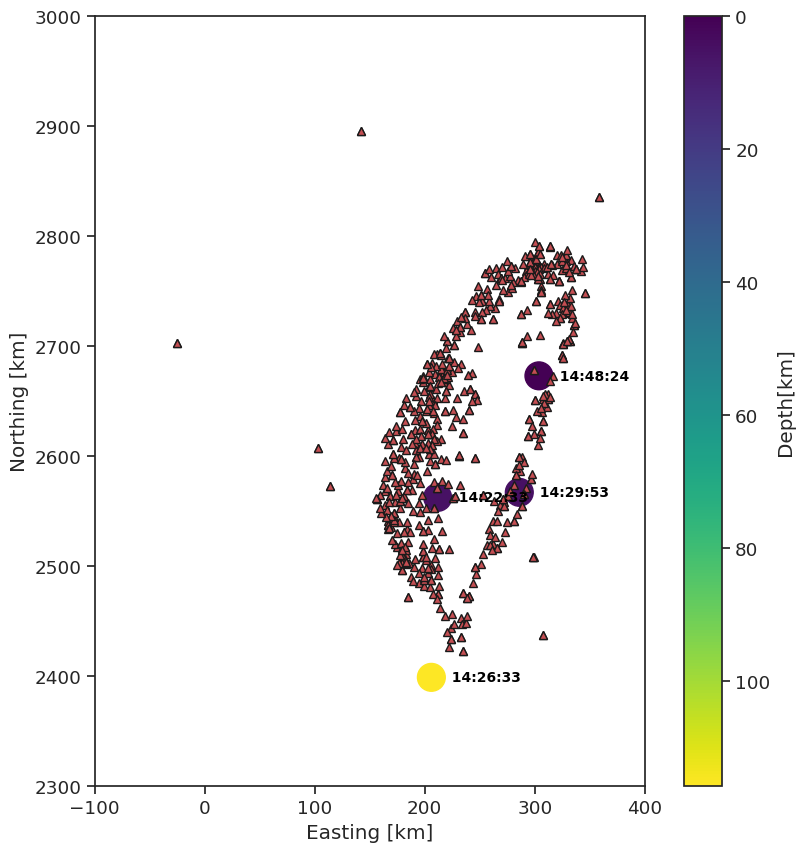
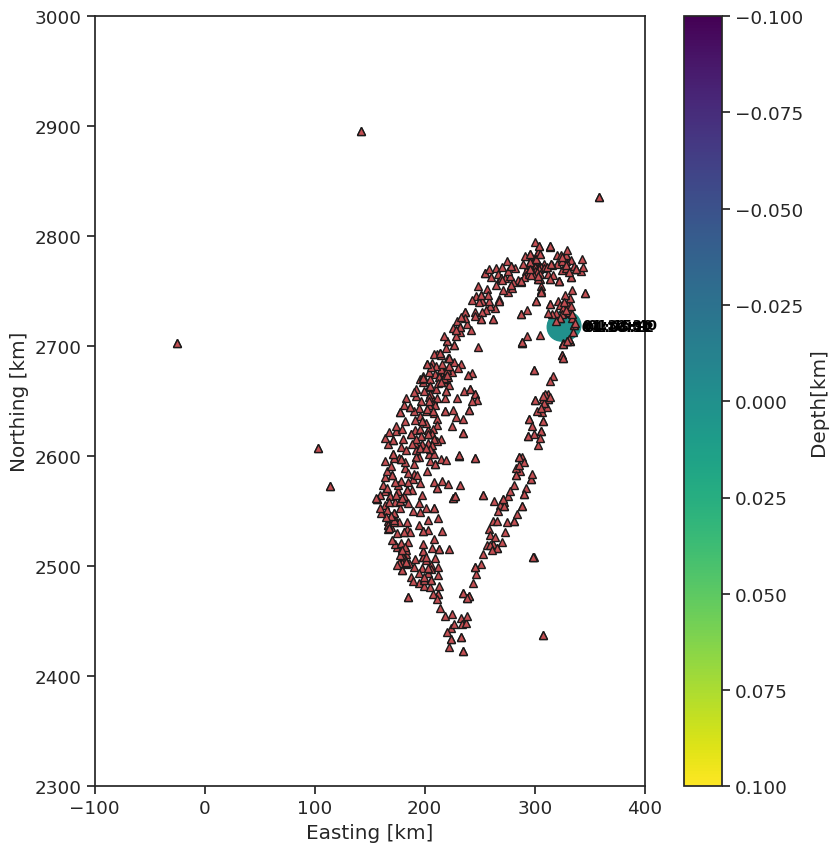
fast commit

diff --git a/seisbench/05_Gamma.py b/seisbench/05_Gamma.py
@@ -17,7 +17,7 @@ sns.set(font_scale=1.2)
 sns.set_style("ticks")
 
 # --- 1. 參數設定 ---
-MSEED_PATH = "../Data/0502_14_15_HL.mseed"
+MSEED_PATH = "../Data/0504_09_10.mseed"
 OUTPUT_DIR = "seismic_plots"
 CHUNK_LENGTH = 900  # 每次讀取 30 分鐘 (避免記憶體溢位)
 # CHUNK_LENGTH = 60    # 每次讀取 1 分鐘 (單一事件)
@@ -261,7 +261,7 @@ print(f"\n[系統通知] 統計報告已同步儲存至：{OUTPUT_REPORT}")
 
 ### --- 6. 繪製每個事件的波形圖 (選配) ---
 # 1. 確保輸出目錄存在
-stream = obspy.read("../Data/0502_14_15_HL.mseed")
+stream = obspy.read(MSEED_PATH)
 EVENT_PLOT_DIR = os.path.join(OUTPUT_DIR, "event_plots")
 os.makedirs(EVENT_PLOT_DIR, exist_ok=True)
 
@@ -296,7 +296,7 @@ for _, event in catalog.iterrows():
         st_select = stream.select(station=sta_code, channel="??Z")
         if st_select:
             # 切割範圍：發震前 5 秒到最後一個 Pick 後 15 秒
-            sub += st_select.slice(origin_time - 5, last + 15)
+            sub += st_select.slice(origin_time - 10, last + 15)
 
     if not sub:
         print(f"跳過事件 {event_idx}：無有效波形範圍")
@@ -310,45 +310,50 @@ for _, event in catalog.iterrows():
     
     # 繪製各站波形
     for trace in sub:
-        # 正規化
-        peak = np.max(np.abs(trace.data))
-        if peak == 0: continue
-        normed = (trace.data / peak) * 5  # 放大 5 倍以便觀察
-        
         # 取得測站座標與計算震源距
         current_sta_id = f"{trace.stats.network}.{trace.stats.station}.10"
         coords = station_dict.get(current_sta_id)
         if not coords: continue
         
-        # 計算 3D 震源距離
         dist = np.sqrt((coords[0] - event["x(km)"])**2 + 
                        (coords[1] - event["y(km)"])**2 + 
                        event["z(km)"]**2)
         all_distances.append(dist)
+
+        # --- 核心修正點 1：使用相對發震時間的時間軸 ---
+        # reftime=origin_time 會讓 times 陣列以發震時間為 0
+        # 發震前 10 秒會是 -10
+        times = trace.times(reftime=origin_time)
         
-        # 時間軸對齊：以 Trace 的開始時間為 0
-        times = trace.times()
+        peak = np.max(np.abs(trace.data))
+        if peak == 0: continue
+        normed = (trace.data / peak) * 5  
+        
         ax.plot(times, normed + dist, lw=0.8, color="gray", alpha=0.7)
         
-        # 標註這一個 Trace 裡的 Picks
+        # --- 核心修正點 2：標註 Picks 的時間計算 ---
         for p in event_picks:
             if p["id"] == current_sta_id:
-                x_pick = UTCDateTime(p["timestamp"]) - trace.stats.starttime
+                # 同樣以 origin_time 為基準計算偏移秒數
+                x_pick = UTCDateTime(p["timestamp"]) - origin_time
+                
                 color = "blue" if p["type"].upper() == "P" else "red"
                 ls = "-" if p["type"].upper() == "P" else "--"
                 ax.vlines(x_pick, dist - 4, dist + 4, color=color, linestyle=ls, lw=2, zorder=5)
 
-    # 繪製發震時間 (Origin Time) - 畫一次即可
-    # 假設所有 trace 的 starttime 差不多，我們取第一個 trace 作為基準
-    rel_origin = origin_time - sub[0].stats.starttime
-    ax.axvline(rel_origin, color="green", lw=2, ls=":", label="Origin Time", alpha=0.8)
+    # 繪製發震時間 (Origin Time) 
+    # 因為現在 x 軸 0 就是 Origin Time，直接畫在 0 即可
+    ax.axvline(0, color="green", lw=2, ls=":", label="Origin Time", alpha=0.8)
         
     # 圖表美化
     if all_distances:
         ax.set_ylim(min(all_distances) - 10, max(all_distances) + 15)
+        # 固定顯示範圍，例如：發震前 5 秒到最後一個 Pick 後 10 秒
+        ax.set_xlim(-5, (last - origin_time) + 10)
     
     ax.set_ylabel("Hypocentral distance [km]")
-    ax.set_xlabel(f"Time [s] since {sub[0].stats.starttime.strftime('%H:%M:%S')}")
+    ax.set_xlabel("Time [s] relative to Origin Time") # 這裡標題也改一下
+
     ax.set_title(f"Event {event_idx} | Depth: {event['z(km)']:.2f}km | Time: {event['time']}")
     ax.grid(True, linestyle='--', alpha=0.5)
     

diff --git a/seisbench/04_plot_association_event.py b/seisbench/04_plot_association_event.py
@@ -5,7 +5,7 @@ import matplotlib.pyplot as plt
 from obspy import read, UTCDateTime
 
 # --- 參數設定 ---
-MSEED_PATH = "../Data/0502_14_15_HL.mseed"
+MSEED_PATH = "../Data/0504_09_10.mseed"
 INPUT_FILE = "seismic_plots/associated_catalog_with_notes.csv"
 EVENT_PLOT_DIR = "seismic_plots/events"
 if not os.path.exists(EVENT_PLOT_DIR):
